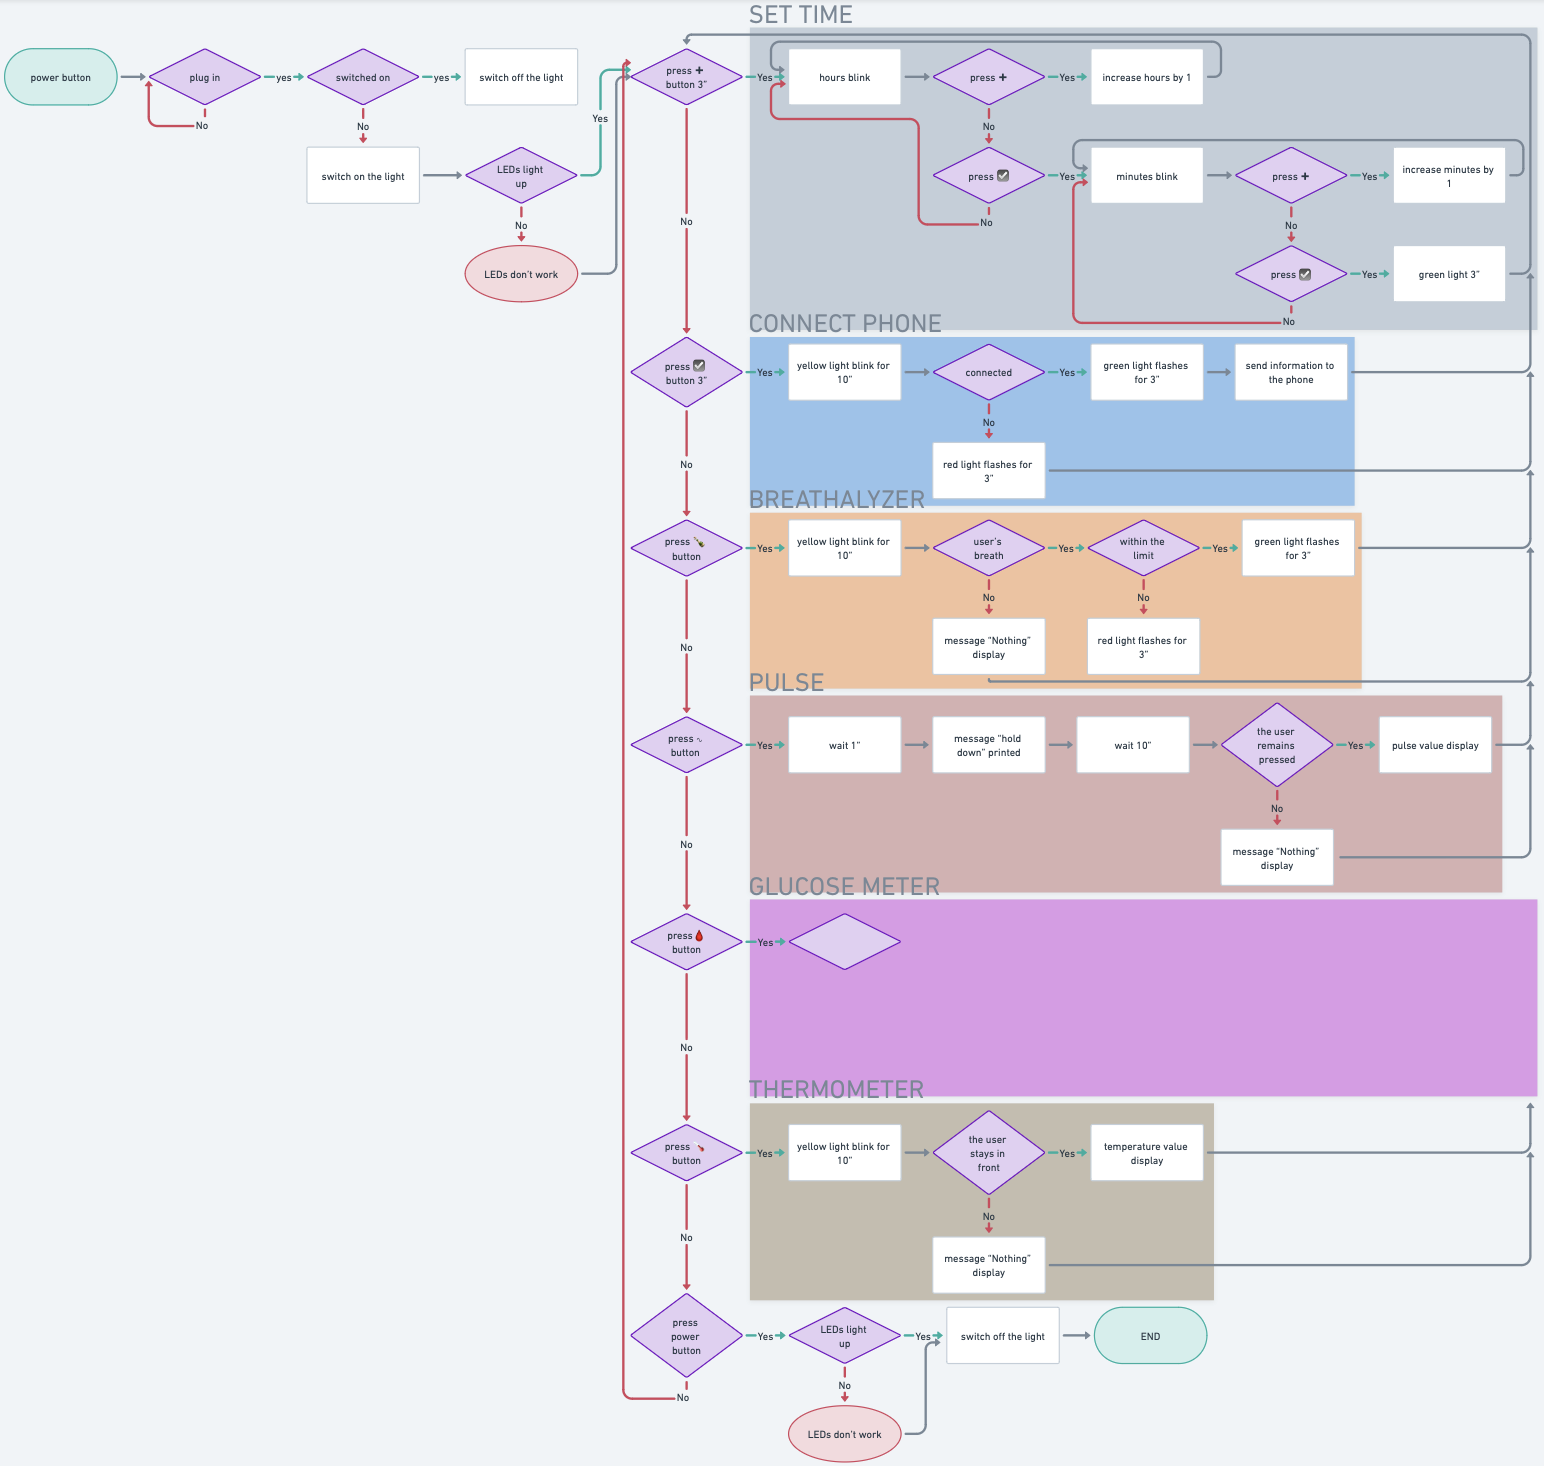
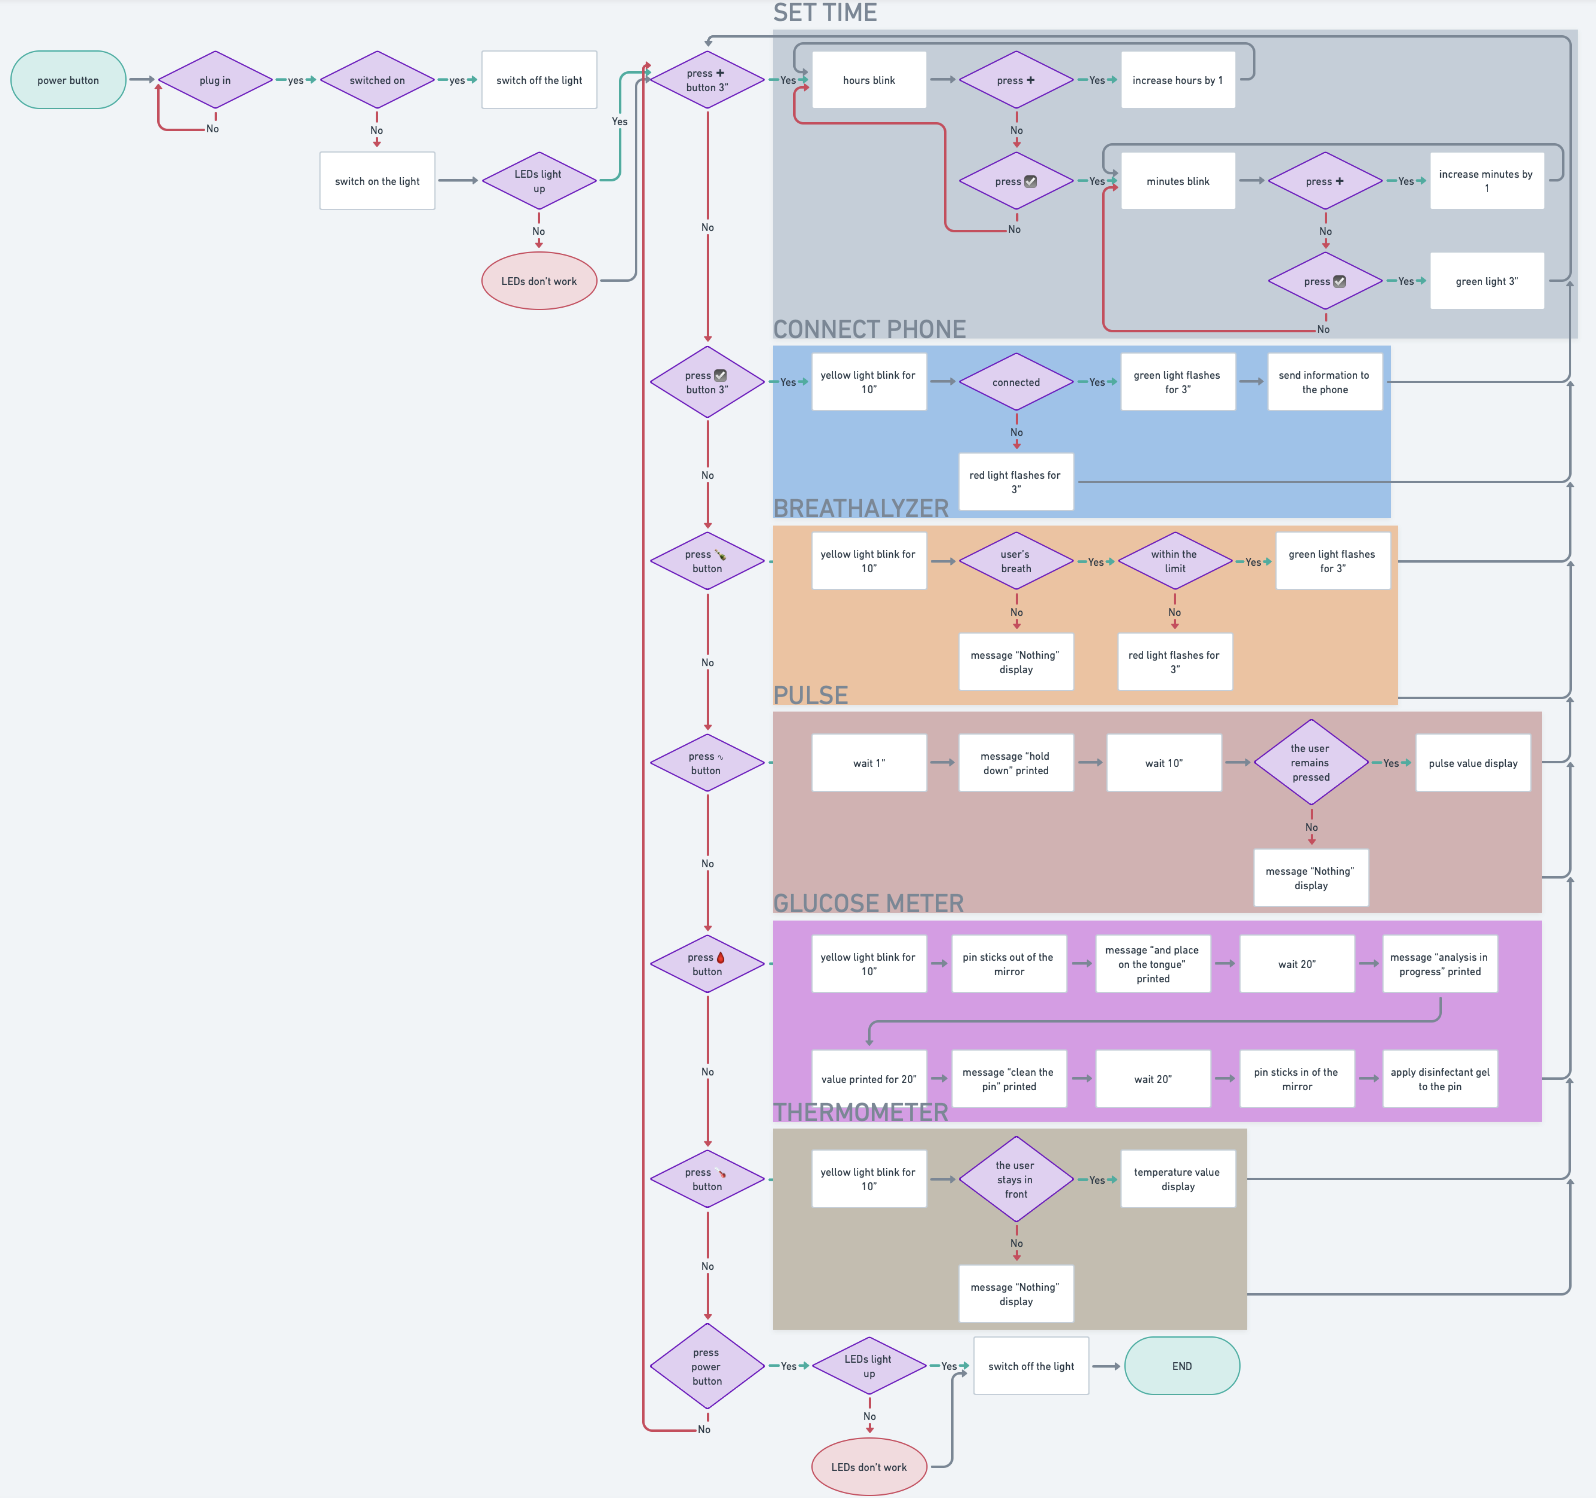
Functional + readme + report
Finish the functional + update the README

Changed region(s): [[0.0, 0.0, 1.0, 1.0], [0.4352, 0.706, 0.4663, 0.7367]]

diff --git a/Specifications/Functional_specification.md b/Specifications/Functional_specification.md
@@ -27,9 +27,7 @@
         - [1. First version](#1-first-version)
         - [2. Second version](#2-second-version)
         - [3. Futures improvements](#3-futures-improvements)
-      - [F. Functional Analysis](#f-functional-analysis)
-        - [1. Mirror](#1-mirror-1)
-        - [2. Application](#2-application-1)
+      - [F. Mirror Functional Analysis](#f-mirror-functional-analysis)
       - [G. Non-functional Requierements](#g-non-functional-requierements)
         - [1. cost](#1-cost)
         - [2. Environment](#2-environment)
@@ -45,21 +43,22 @@
 
 #### A. Information
 
-| Document ID | Document # 01 |
+| Document ID | #01 |
 |---|---|
 | Document Owner | Grégory PAGNOUX |
-| Issue date | 10/03/2024 |
+| Issue date | 10/31/2024 |
 | Document Name | Functional Specification|
 
 #### B. History
 
 | Version n° | Edits completed by | Date | Description of edit |
 |---|---|---|---|
-|01.1|Grégory PAGNOUX| 20/01/2024 | Initial Release |
-|01.2|Grégory PAGNOUX| 25/02/2024 | document improvement (mirror system purpose, document architecture) |
-|01.3|Grégory PAGNOUX| 03/03/2024 | document improvement (application system purpose, texts of personas and scenarios) |
-|01.4|Grégory PAGNOUX| 10/03/2024 | document improvement (pictures of personas, functional analysis) |
-|01.5|Grégory PAGNOUX| 02/06/2024 | document improvement (application details, and design) |
+| 1.1 | Grégory PAGNOUX | 01/20/2024 | Initial Release |
+| 1.2 | Grégory PAGNOUX | 02/25/2024 | document improvement (mirror system purpose, document architecture) |
+| 1.3 | Grégory PAGNOUX | 03/03/2024 | document improvement (application system purpose, texts of personas and scenarios) |
+| 1.4 | Grégory PAGNOUX | 03/10/2024 | document improvement (pictures of personas, functional analysis) |
+| 1.5 | Grégory PAGNOUX | 06/02/2024 | document improvement (application details, and design) |
+| 1.6 | Grégory PAGNOUX | 10/15/2024 | end of the first version (mirror functional analysis, applications details) |
 
 ### II. Project Overview
 
@@ -146,8 +145,8 @@ The user presses the validation button for 3 seconds and the yellow light flashe
 
 ##### 2. Application
 
-<!--TODO-->
-![app design](/img/appDesign.png)
+Here are the application's functionalities.
+(As this is not the main project, but an option added to the mirror to complete its use, there will be no further details).
 
 **installation**
 
@@ -167,7 +166,7 @@ On the settings page, you can modify your mail adress, and your password, you ca
 
 **data graphs**
 
-<!--TODO-->
+These graphs can be found on each options page for tracking their data in each category.
 
 **call a doctor**
 
@@ -223,6 +222,7 @@ One of the big problems to consider with this mirror is the increase in people's
 **Data**
 If we want to have a connected mirror with smartphone, we need to interest us on the **the reglementation of data backups**.
 There are three different archives depending on the type of data :
+
 - **Active database archiving** where data that are no longer useful to the enterprise (for example, data on job seekers to which they have not followed up) are deleted once the reason for the study has been completed (after a maximum of two years).
 - **Intermediate archiving** where data are saved even after the purpose of data collection has been achieved as they are still of interest to the enterprise. The duration is set by the person responsible and must be relevant to its usefulness.
 - **Final archiving** where data that remains of great interest in the future without an end date are saved, after an upstream check.
@@ -254,16 +254,9 @@ source :
 - take alcohol level
 - more aesthetics
 
-#### F. Functional Analysis
-
-##### 1. Mirror
+#### F. Mirror Functional Analysis
 
 ![functional analysis, mirror](/img/mirror_functional_analysis.png)
-
-##### 2. Application
-
-<!--TODO-->
-![functional analysis, application](/img/)
 
 #### G. Non-functional Requierements
 
@@ -293,7 +286,7 @@ source :
 
 First version :
 
-- Septembre 2024 - Mai 2025
+- November 2024 - May 2025
 
 ##### 2. Environment
 

diff --git a/reports/May Report.md b/reports/May Report.md
@@ -1,0 +1,23 @@
+# May Report
+
+<center>
+<img src="../img/logo.png"
+alt="logo"/>
+</center>
+
+| Document ID | #03 |
+|---|---|
+| Document Owner | Grégory PAGNOUX |
+| Issue date | 05/31/2024 |
+| Document Name | May Report |
+
+## Done
+
+- The brainstorming of the project is mostly done concern targeted person, options and need.
+- Design of the mirror done.
+- The first version of the Functional is mostly done (85%).
+
+## To Do
+
+- The first version of the Functional need to be completed.
+- Start the Technical.

diff --git a/Specifications/Technical_Specifications.md b/Specifications/Technical_Specifications.md
@@ -43,17 +43,17 @@
 
 #### A. Information
 
-| Document ID | Document # 02 |
+| Document ID | #02 |
 |---|---|
 | Document Owner | Grégory PAGNOUX |
 | Issue date | 02/06/2024 |
-| Document Name | Technical Specification|
+| Document Name | Technical Specification |
 
 #### B. History
 
 | Version n° | Edits completed by | Date | Description of edit |
 |---|---|---|---|
-|01.1|Grégory PAGNOUX| 17/03/2024 | Initial Release |
+| 1.1 | Grégory PAGNOUX | 17/03/2024 | Initial Release |
 
 #### C. Overview
 

diff --git a/README.md b/README.md
@@ -100,16 +100,12 @@ With your Smartphone you have the possibility to track your datas.
     - [x] research data law
   - November - December:
 - 2024
-  - January - August :
+  - January - October :
     - [ ] Specifications
       - [x] Functional
       - [ ] Technical
-  - September :
-    - [ ] Validation
-    - [ ] Conception
-  - October :
-    - [ ] Conception
   - November :
+    - [ ] Validation
     - [ ] Conception
   - December :
     - [ ] Conception
